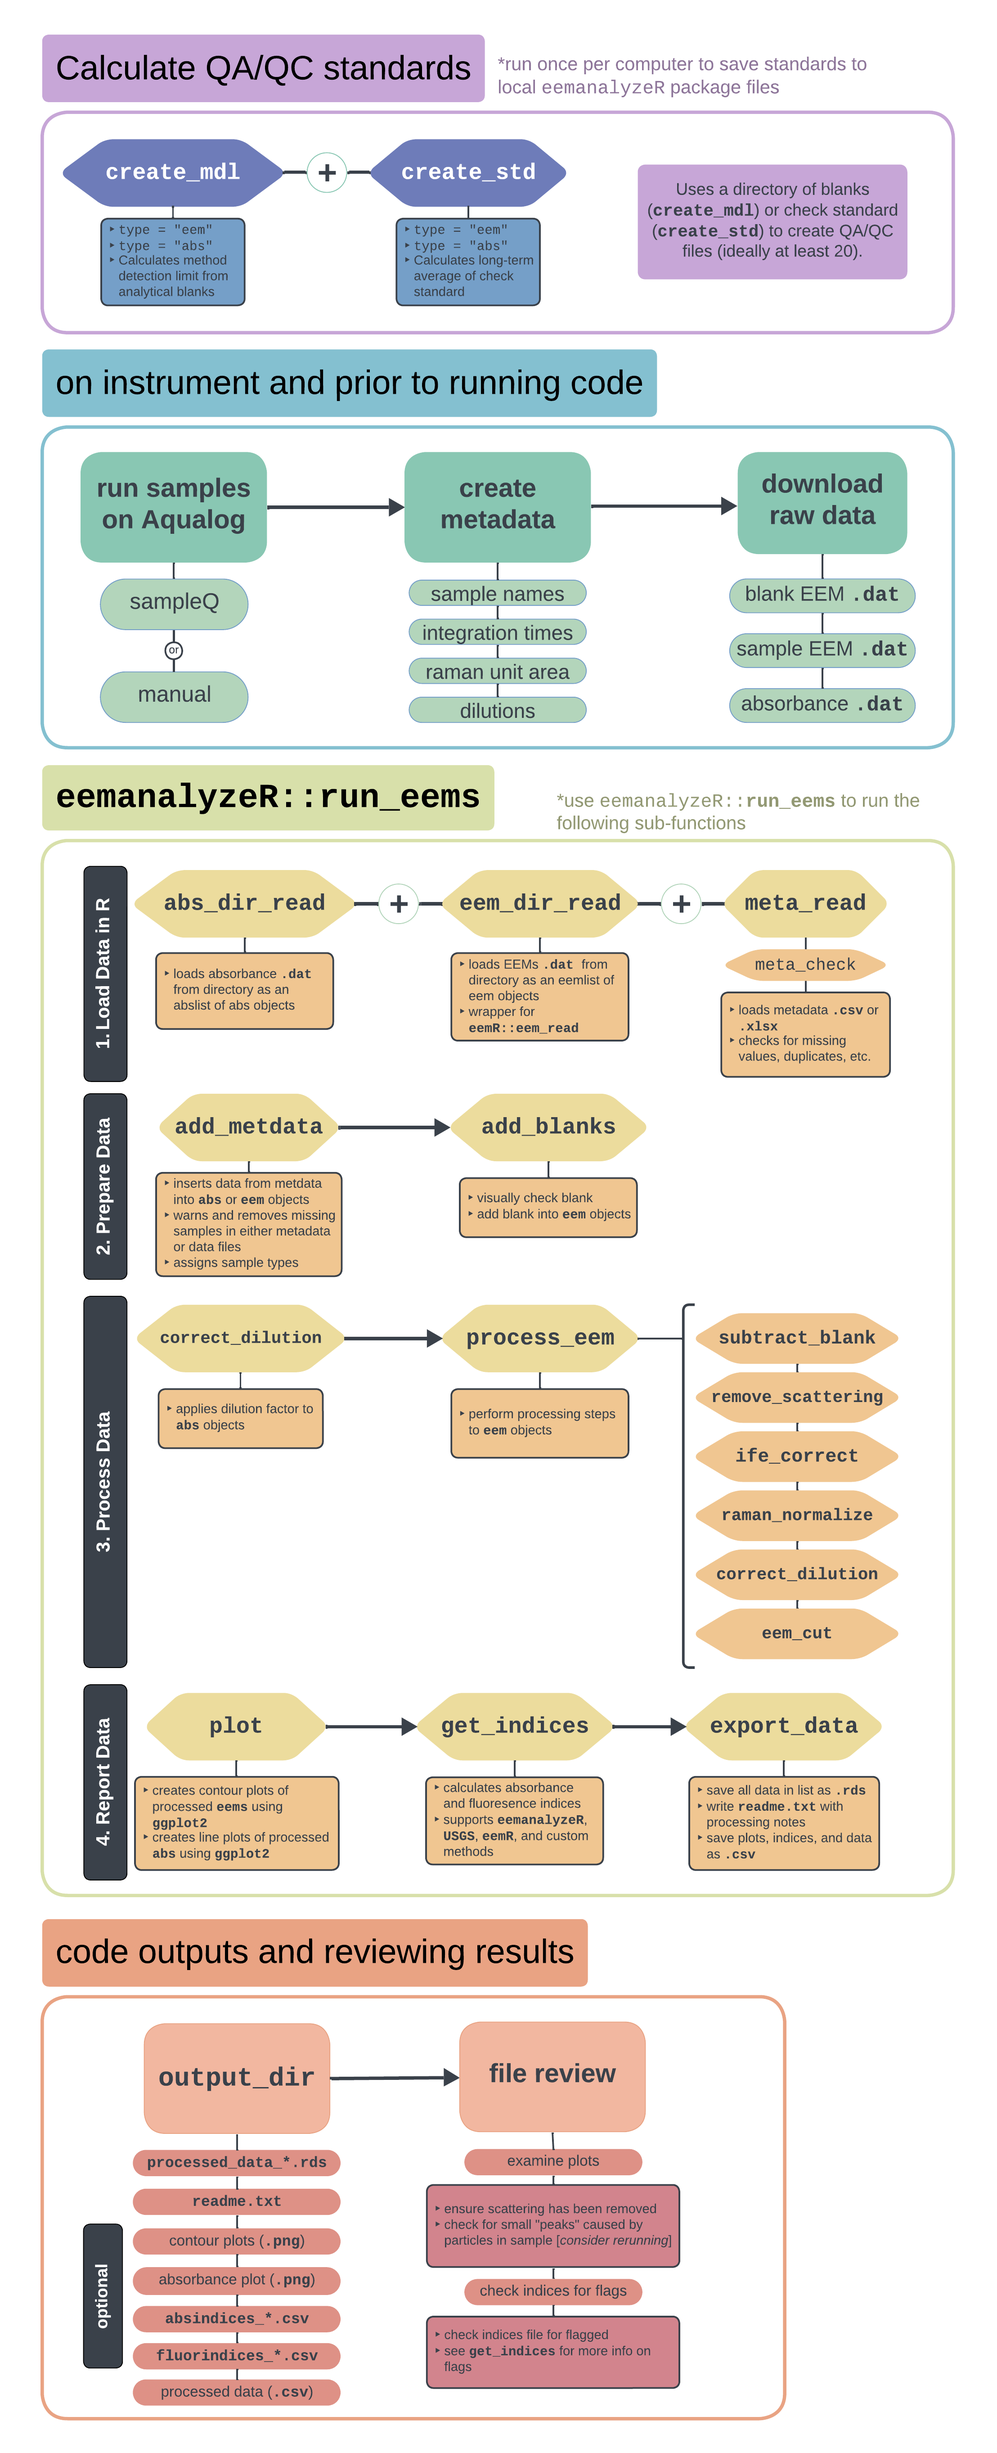
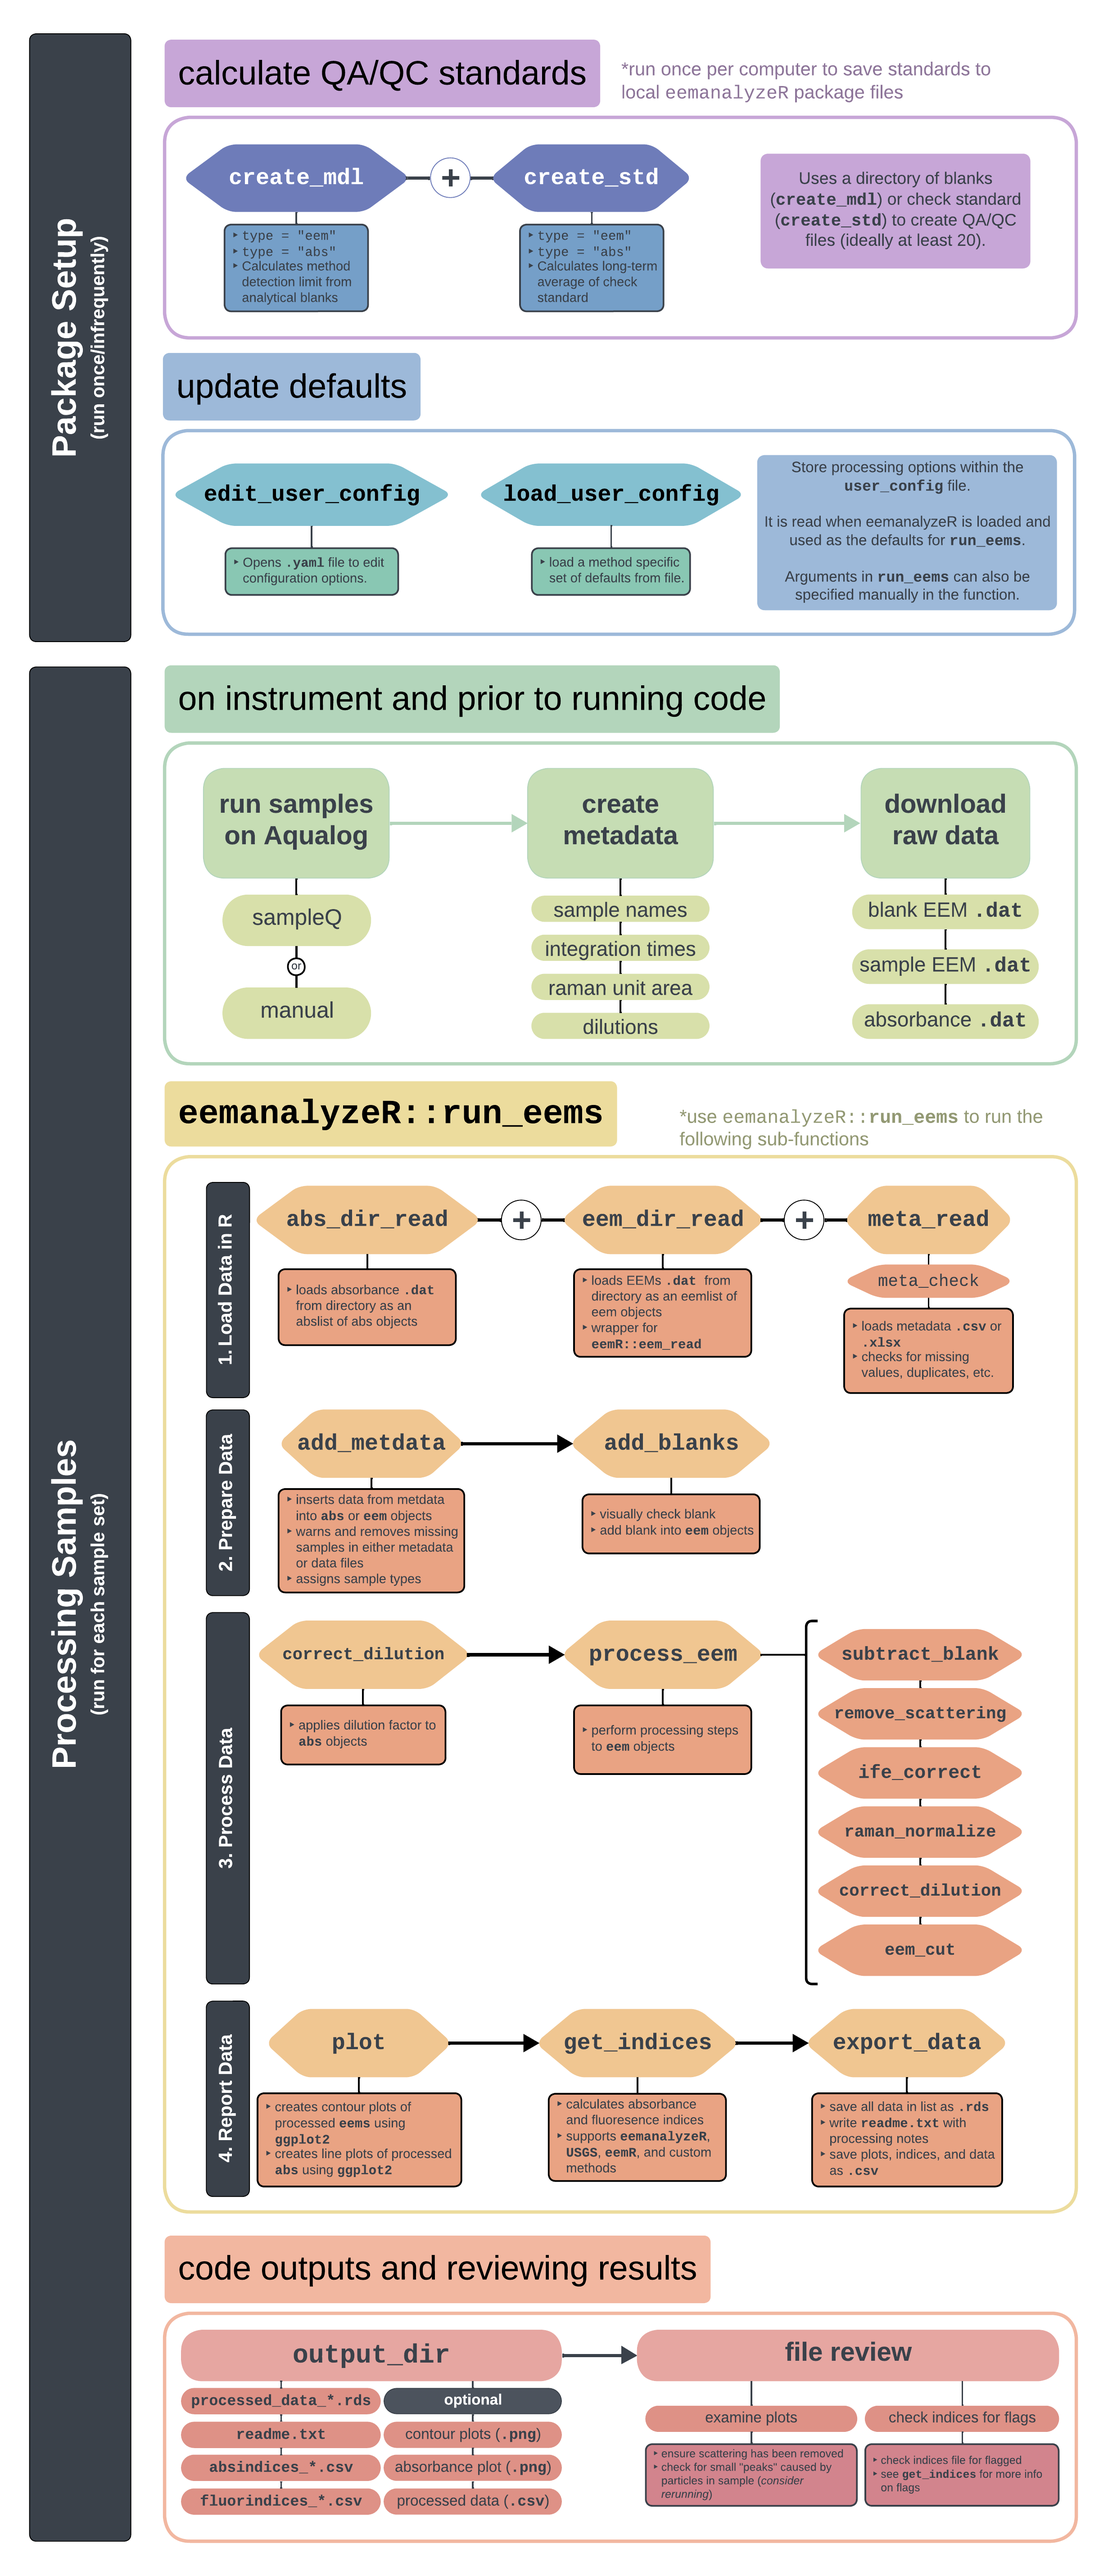
updating flow chart
GH #23 also trying to fix news.md to show up on the website since we actually have news now

diff --git a/NEWS.md b/NEWS.md
@@ -1,6 +1,8 @@
-# Changelog
+# eemanalyzeR
 
-## eemanalyzeR 1.2.0 (2026-04-16)
+# eemanalyzeR 1.2.0 
+
+(2026-04-16)
 
 -   Moving some of the checks of the QA/QC samples to the `run_eems`
     function so they don't warn the user multiple times as the
@@ -30,7 +32,9 @@
     -   Added section in `output-documentation` to describe what to look
         for in the blank validation step. (#19)
 
-## eemanalyzeR 1.1.0 (2026-03-31)
+# eemanalyzeR 1.1.0 
+
+(2026-03-31)
 
 -   Updated `create_mdl` and `create_std` functions to ask to update the
     default qaqc_dir in the user_config if it's NA and not directory is
@@ -46,7 +50,9 @@
     update the readme with the files used, and return the QA/QC files
     (#24).
 
-## eemanalyzeR 1.0.3 (2026-03-30)
+# eemanalyzeR 1.0.3 
+
+(2026-03-30)
 
 -   Added an argument (`sum_plot`) to `export_data` to skip the summary
     plot to fix bug when processing a large (\>50) samples at a time
@@ -58,7 +64,9 @@
 -   Further updated the pattern defaults to be a little more flexible
     for `skip` in `dir_read` to work with our example data (#20).
 
-## eemanalyzeR 1.0.2 (2026-03-26)
+# eemanalyzeR 1.0.2 
+
+(2026-03-26)
 
 -   Updating all functions to remove the use of helper function
     `.qaqc_dir` and replace with `get_qaqc_dir` which pulls from the
@@ -70,11 +78,15 @@
 -   When creating MDL and check standard files, if no `qaqc_dir` is
     specified it will return the file as an R object with a warning.
 
-## eemanalyzeR 1.0.1 (2026-03-09)
+# eemanalyzeR 1.0.1 
+
+(2026-03-09)
 
 -   Updated defaults for `skip` in `dir_read` to be more robust and to
     skip samples with "abs" in the name (#20).
 
-## eemanalyzeR 1.0.0 (2026-01-02)
+# eemanalyzeR 1.0.0 
+
+(2026-01-02)
 
 Initial publicly available version.
